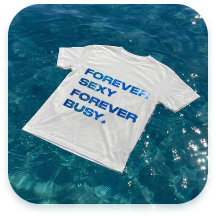
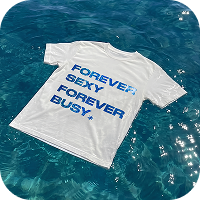
Fix portfolio interactions and visual consistency

diff --git a/styles.css b/styles.css
@@ -1,6 +1,7 @@
 :root {
   --cream: #f6f2e5;
   --paper: #fbfaf6;
+  --section-paper: #f8f8ff;
   --ink: #171614;
   --muted: #756f64;
   --line: rgba(23, 22, 20, 0.13);
@@ -527,6 +528,8 @@ body.case-dialog-is-open {
   gap: clamp(19px, 1.8vw, 24px);
   left: 0;
   padding: clamp(28px, 4.2vh, 40px) clamp(18px, 3.2vw, 48px) 0;
+  /* Let orbit cards receive input through the empty header area. */
+  pointer-events: none;
   position: absolute;
   right: 0;
   top: calc(50% - min(var(--hero-stage-half), 50%));
@@ -545,6 +548,7 @@ body.case-dialog-is-open {
 
 .brand-small > a {
   display: block;
+  pointer-events: auto;
 }
 
 .brand-title {
@@ -586,6 +590,7 @@ body.case-dialog-is-open {
   grid-template-columns: 0.8fr 0.65fr 1.5fr 1fr;
   min-height: 52px;
   padding: 0 10px;
+  pointer-events: auto;
   width: 100%;
 }
 
@@ -632,6 +637,7 @@ body.case-dialog-is-open {
   color: #828ac4;
   left: 0;
   padding: 24px 28px;
+  pointer-events: auto;
   position: absolute;
   top: calc(100% + 12px);
   width: min(204px, calc(100vw - 48px));
@@ -1373,7 +1379,7 @@ body.case-dialog-is-open {
 }
 
 .panel.pricing {
-  background: #f8f8ff;
+  background: var(--section-paper);
   border: 1px solid rgba(255, 255, 255, 0.92);
   border-radius: clamp(28px, 3.2vw, 44px);
   box-shadow: 0 18px 48px rgba(67, 75, 130, 0.1);
@@ -1699,7 +1705,7 @@ body.case-dialog-is-open {
 .panel.process {
   --process-accent: #828ac4;
   aspect-ratio: 888 / 469;
-  background: #f8f8ff;
+  background: var(--section-paper);
   border: 1px solid rgba(255, 255, 255, 0.82);
   border-radius: clamp(28px, 3vw, 44px);
   box-shadow: 0 18px 48px rgba(40, 34, 24, 0.12), inset 0 1px 0 #fff;
@@ -1897,7 +1903,7 @@ body.case-dialog-is-open {
 
 .step {
   color: var(--step-accent);
-  filter: drop-shadow(0 -2px 4px rgba(88, 96, 164, 0.22)) drop-shadow(2px 2px 3px rgba(88, 96, 164, 0.12));
+  filter: drop-shadow(0 -2px 4px rgba(88, 96, 164, 0.16)) drop-shadow(2px 2px 3px rgba(88, 96, 164, 0.08));
   position: relative;
   width: 100%;
   pointer-events: none;
@@ -2154,7 +2160,7 @@ body.case-dialog-is-open {
 }
 
 .panel.skills {
-  --skill-paper: #f8f8ff;
+  --skill-paper: var(--section-paper);
   --skill-ink: #23243b;
   --skill-muted: #63647b;
   --skill-stroke: #dedff0;
@@ -2429,6 +2435,7 @@ body.case-dialog-is-open {
 
 .contact {
   align-items: center;
+  background: var(--section-paper);
   display: grid;
   gap: clamp(42px, 5%, 64px);
   grid-template-columns: clamp(220px, 24%, 300px) minmax(0, 1fr);
@@ -2498,9 +2505,18 @@ body.case-dialog-is-open {
   width: 0.95em;
 }
 
+.is-contact-magnifying,
+.is-contact-magnifying *,
 .contact.is-magnifying,
-.contact.is-magnifying * {
-  cursor: none;
+.contact.is-magnifying *,
+.contact-cursor,
+.contact-cursor * {
+  cursor: none !important;
+}
+
+.contact-cursor,
+.contact-cursor * {
+  pointer-events: none;
 }
 
 .contact.is-magnifying .contact-loupe,
@@ -2533,7 +2549,7 @@ body.case-dialog-is-open {
     20.98% 66.28%, 20.98% 59.45%, 14.29% 59.45%, 14.29% 52.02%,
     7.14% 52.02%, 7.14% 22.3%, 14.29% 22.3%, 14.29% 14.86%,
     21.43% 14.86%);
-  background: #fff;
+  background: var(--section-paper);
   height: 100%;
   overflow: hidden;
   width: 100%;
@@ -2604,6 +2620,7 @@ body.case-dialog-is-open {
 
 .site-footer {
   align-items: center;
+  background: var(--section-paper);
   border-radius: clamp(18px, 2.4vw, 34px);
   color: rgba(23, 22, 20, 0.58);
   display: flex;

diff --git a/index.html b/index.html
@@ -34,7 +34,7 @@
       href="https://fonts.googleapis.com/css2?family=Dela+Gothic+One&family=Inter:wght@400;500;600;700;800;900&display=swap"
       rel="stylesheet"
     />
-    <link rel="stylesheet" href="./styles.css?v=20261010-05" />
+    <link rel="stylesheet" href="./styles.css?v=20261010-09" />
   </head>
   <body>
     <svg class="liquid-filter-defs" aria-hidden="true" focusable="false">
@@ -191,7 +191,6 @@
       <section class="panel pricing" id="pricing" aria-labelledby="pricing-heading">
         <header class="pricing-heading reveal">
           <div>
-            <p class="pricing-kicker">От идеи до запуска</p>
             <h2 id="pricing-heading">Услуги<br /> и стоимость</h2>
           </div>
         </header>
@@ -600,7 +599,7 @@
                 >матрив<span class="contact-letter-anchor contact-loupe-anchor"
                   >ат<img
                     class="contact-title-decor contact-loupe"
-                    src="./assets/contact-loupe.svg"
+                    src="./assets/contact-loupe.svg?v=20261010-01"
                     alt=""
                     aria-hidden="true"
                     draggable="false"
@@ -724,6 +723,6 @@
       </article>
     </dialog>
 
-    <script src="./script.js?v=20261009-10"></script>
+    <script src="./script.js?v=20261010-01"></script>
   </body>
 </html>

diff --git a/script.js b/script.js
@@ -72,7 +72,7 @@ const pairs = [
     label: "креативная студия",
     type: "мерч",
     count: "1 материал",
-    caseImage: "./assets/case-pinhead.png",
+    caseImage: "./assets/case-pinhead.png?v=20261010-01",
     companyImage: "./assets/company-pinhead.png",
     companyArtwork: true,
     title: "Pinhead",
@@ -1240,6 +1240,7 @@ if (processStack) {
   const buttons = Array.from(contact.querySelectorAll(".contact-button"));
 
   const hide = () => {
+    document.documentElement.classList.remove("is-contact-magnifying");
     contact.classList.remove("is-magnifying");
     cursor?.classList.remove("is-visible");
     pointer = null;
@@ -1300,6 +1301,8 @@ if (processStack) {
 
   const track = (event) => {
     if (event.pointerType !== "mouse" || !mouseAvailable.matches) return hide();
+    // Hide the native pointer before the next animation frame, including overlays.
+    document.documentElement.classList.add("is-contact-magnifying");
     pointer = { x: event.clientX, y: event.clientY };
     schedule();
   };
